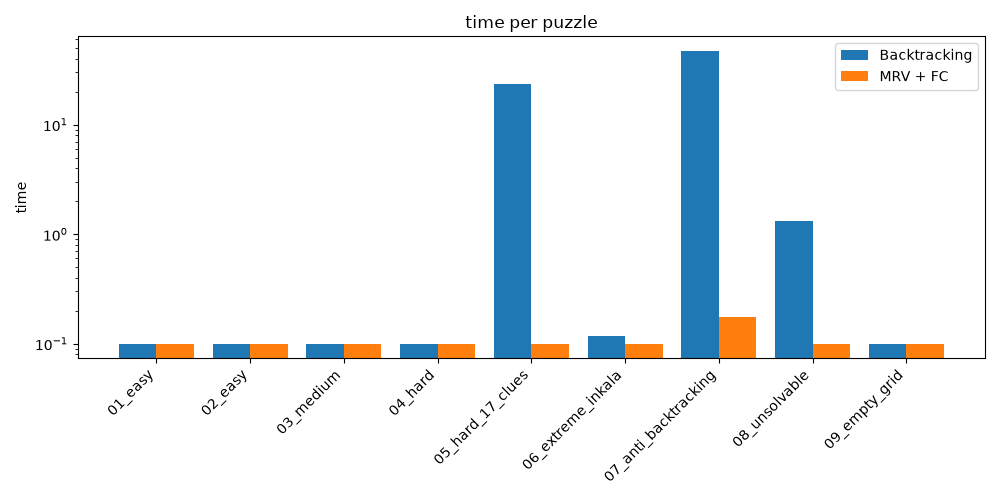
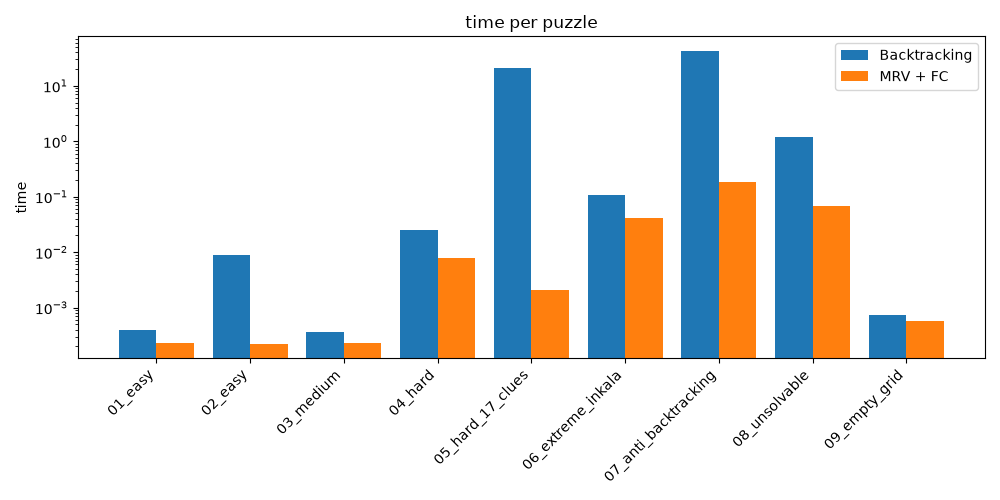
Update README with puzzle sources, enhance app styling, and refine benchmark results

diff --git a/app.py b/app.py
@@ -11,7 +11,6 @@ METHODS = {
 }
 NODE_LIMIT = 2000000   # stops plain backtracking from running for ages
 
-
 BOARD_CSS = """
 <style>
 .sudoku {
@@ -20,6 +19,8 @@ BOARD_CSS = """
 }
 
 .sudoku td {
+    background: white;
+    color: black;
     width: 40px;
     height: 40px;
     text-align: center;
@@ -46,7 +47,6 @@ BOARD_CSS = """
 }
 </style>
 """
-
 
 def board_html(puzzle, solution=None):
     # generate HTML for a Sudoku board and with a solution
@@ -88,7 +88,6 @@ st.title("Sudoku Solver")
 
 # split window into two columns, left for input, right for output
 left, right = st.columns(2, gap="large")
-
 
 # input column
 with left:

diff --git a/benchmark.py b/benchmark.py
@@ -78,7 +78,7 @@ def make_charts(rows):
                 for r in rows:
                     if r["puzzle"] == p and r["method"] == method:
                         # log scale can't show 0, so use a tiny value instead
-                        values.append(max(r[key], 0.1))
+                        values.append(max(r[key], 1e-5 if key == "time_s" else 0.1))
             x = [j + i * width for j in range(len(puzzles))]
             plt.bar(x, values, width, label=method)
 
@@ -92,7 +92,6 @@ def make_charts(rows):
         plt.savefig(out)
         plt.close()
         print("saved", out)
-
 
 if __name__ == "__main__":
     main()

diff --git a/README.md b/README.md
@@ -23,7 +23,20 @@ pip install -r requirements.txt
 | `app.py` | Implements the GUI using Streamlit|
 | `benchmark.py` | Tests both methods and saves the results |
 | `test_solver.py` | Implements the unit tests |
-| `puzzles/` | Directory contains test puzzles. The txt puzzel files are generated using AI tool |
+| `puzzles/` | Directory contains test puzzles. It is AI generated depending on the following resources
+
+### Puzzle Sources
+
+| Puzzle | Source |
+|---|---|
+| 01 | Simple easy example |
+| 02 | Example from Wikipedia's Sudoku page |
+| 03, 04 | AI generated |
+| 05 | From Norvig's essay |
+| 06 | Arto Inkala's "world's hardest" puzzle |
+| 07 | Wikipedia puzzle designed to defeat backtracking |
+| 08 | Puzzle 06 with one wrong digit added (AI generated), making it unsolvable |
+| 09 | Empty grid |
 
 ## How to Run
 
